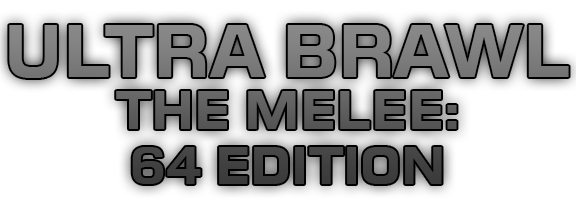
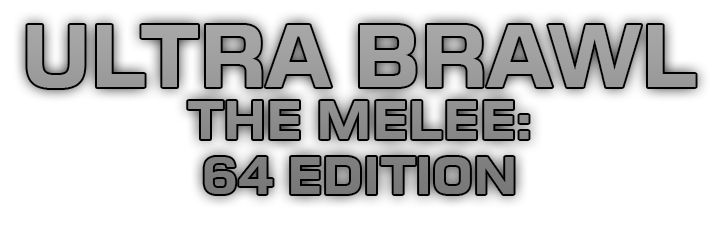
backgrounds and title screen

diff --git a/UltraBrawl/UltraBrawl/SpriteManager.cs b/UltraBrawl/UltraBrawl/SpriteManager.cs
@@ -211,7 +211,7 @@ namespace UltraBrawl
 
 
             startMenu = new Vector2[1, 2];
-            startMenu[0, 0] = new Vector2((GraphicsDevice.Viewport.Width / 2) - 180, 400);
+            startMenu[0, 0] = new Vector2((GraphicsDevice.Viewport.Width / 2) - 180, 500);
             startMenu[0, 1] = new Vector2((GraphicsDevice.Viewport.Width / 2) - 180, 600);
 
             charSelectMenu = new Vector2[2, 3];
@@ -408,10 +408,11 @@ namespace UltraBrawl
                         null,
                         null,
                         cam.get_transformation(GraphicsDevice));
+            spriteBatch.Draw(background, new Rectangle(0, 0, 1920, 1080), Color.White);
             if (gameState == GameState.StartMenu)
             {
                 game.IsMouseVisible = true;
-                spriteBatch.Draw(title, new Vector2((GraphicsDevice.Viewport.Width / 2) - 250, 200), Color.White);
+                spriteBatch.Draw(title, new Vector2((GraphicsDevice.Viewport.Width / 2) - 360, 150), Color.White);
                 spriteBatch.Draw(startButton, startMenu[0, 0], Color.White);
                 spriteBatch.Draw(exitButton, startMenu[0, 1], Color.White);
                 spriteBatch.Draw(defaultCursor, cursorPositions[0], Color.White);
@@ -457,10 +458,6 @@ namespace UltraBrawl
             if (gameState == GameState.BgSelect)
             {
                 game.IsMouseVisible = true;
-                if (bgSelected)
-                {
-                    spriteBatch.Draw(background, new Rectangle(0, 0, 1920, 1080), Color.White);
-                }
                 spriteBatch.Draw(bgButton1, bgSelectMenu[0, 0], Color.White);
                 spriteBatch.Draw(bgButton2, bgSelectMenu[0, 1], Color.White);
                 spriteBatch.Draw(bgButton3, bgSelectMenu[0, 2], Color.White);
